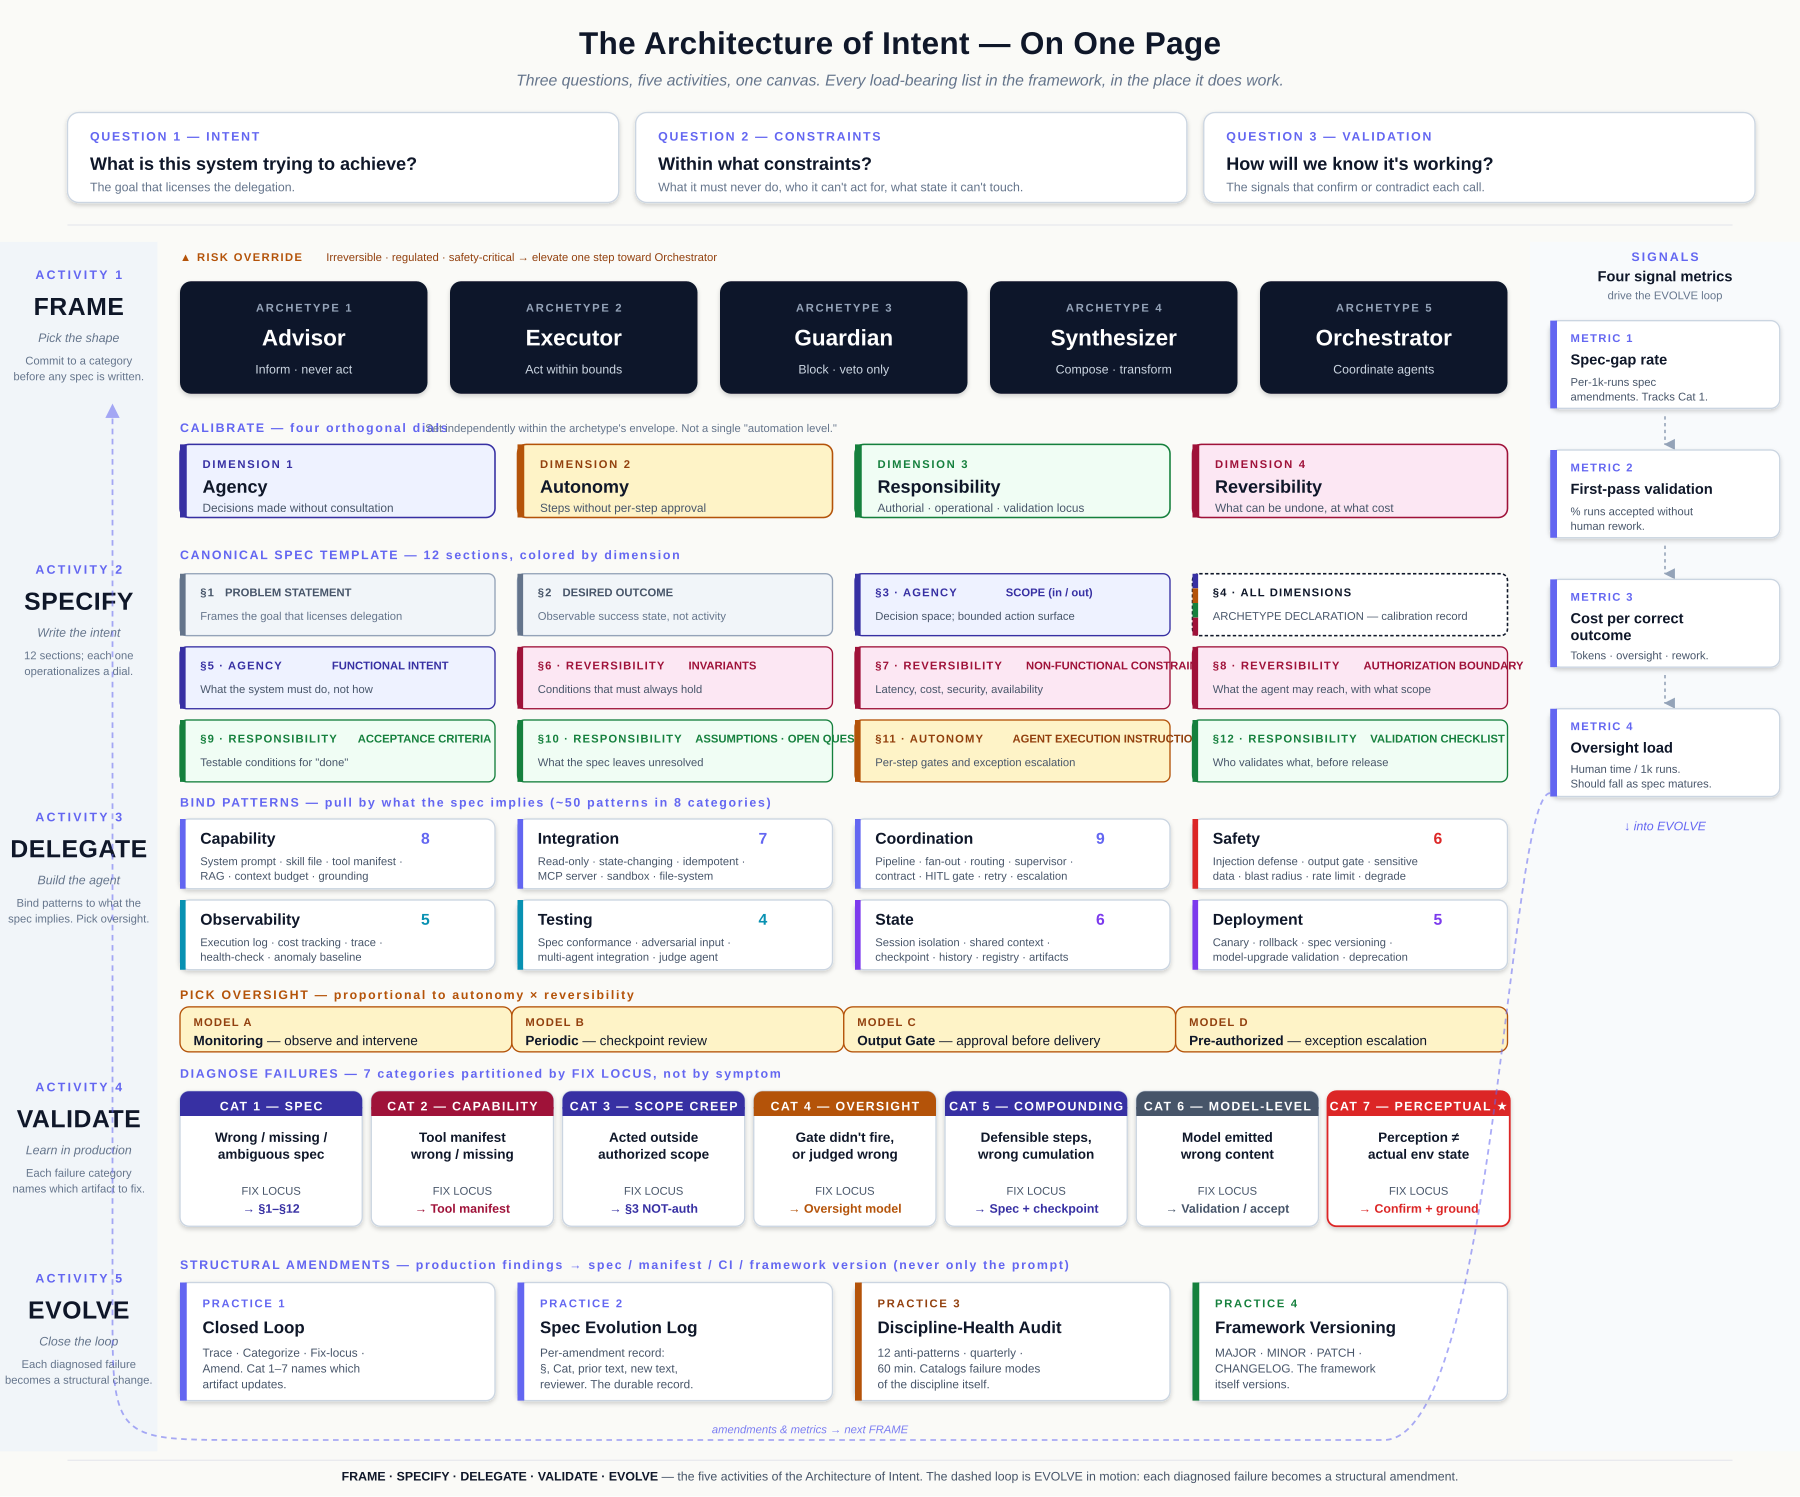
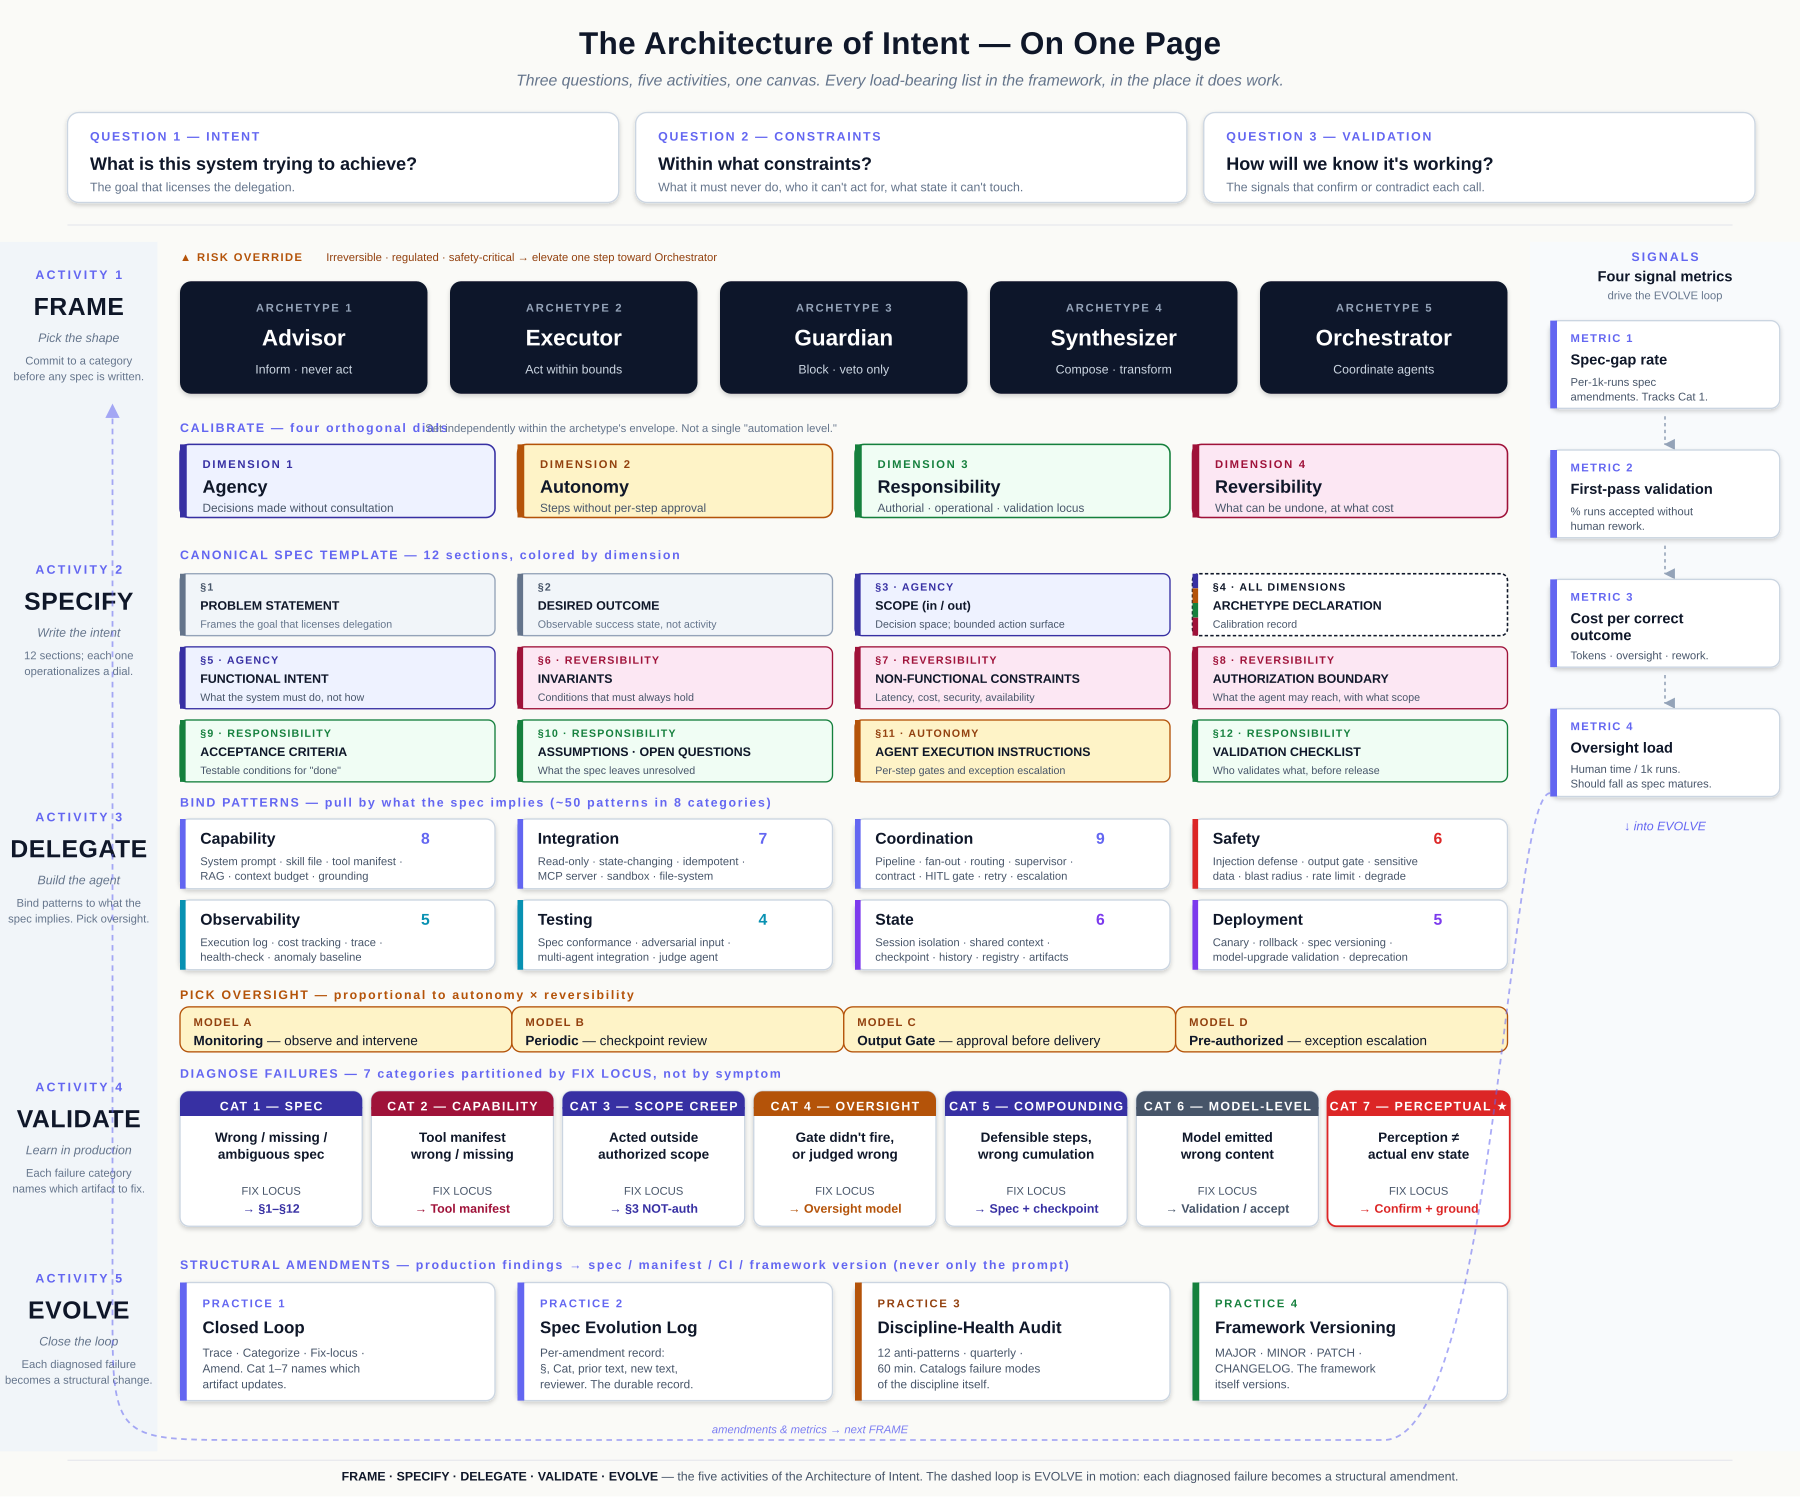
Fix canvas overflow and stale README structure
Canvas (paper/figures/architecture-of-intent-canvas.svg):
- Spec template grid (§1–§12): rework each cell from "label-then-title-on-
  same-line" to a uniform stacked layout — small dimension annotation on
  top (§N · DIMENSION), bold section title on the second line, description
  on the third line. The old layout overflowed several cells where the
  title was long: NON-FUNCTIONAL CONSTRAINTS (§7), AUTHORIZATION BOUNDARY
  (§8), ASSUMPTIONS · OPEN QUESTIONS (§10), AGENT EXECUTION INSTRUCTIONS
  (§11). Stacking removes the dependency on rsvg-convert's font-width
  estimate and gives all 12 cells a consistent visual rhythm.
- PNG regenerated at width=1800 and mirrored into src/images/ so the
  book's "framework on one page" section in src/introduction.md stays
  in sync with the paper's Figure 1.

README.md (root):
- "How it's organized" table replaced the v1.x part names ("1. Decisions,
  2. The Spec, 3. The Agent, 4. Oversight, 5. Ship, 6. Worked Pilots")
  with the v2.x five-activity spine (FRAME / SPECIFY / DELEGATE / VALIDATE
  / EVOLVE & OPERATE) plus Foundations (Part 0). Worked Pilots row
  removed; the v1.x archive is now an appendix entry per v2.3.1.
- Repository layout tree updated to reflect the actual src/ directory
  structure: foundations/, frame/, specify/, delegate/, validate/,
  evolve/. The previous tree still listed architecture/, agents/, and
  operating/ — directories that were renamed in v2.2.x.

paper/README.md:
[…]

Changed region(s): [[0.4667, 0.3687, 0.84, 0.5224], [0.28, 0.3687, 0.4356, 0.5224], [0.0933, 0.3687, 0.2489, 0.5224]]

diff --git a/README.md b/README.md
@@ -31,18 +31,20 @@ If you're trying to answer "how do we ship this agent without it doing something
 
 ## How it's organized
 
+The book is organized as five activities — Frame, Specify, Delegate, Validate, Evolve & Operate — preceded by a *Foundations* part that establishes the vocabulary.
+
 | Part | Purpose |
 |------|---------|
-| **Prologue** | What changed, what's at stake, and what this playbook gives you |
-| **1. Decisions** | Pick an archetype, calibrate the four dimensions, anticipate failure, separate intent from implementation |
-| **2. The Spec** | Spec-driven development, the canonical template, writing for machine execution, living specs |
-| **3. The Agent** | What agents are, capability boundaries, knowledge & context, tools and MCP |
-| **4. Oversight, Safety & Operations** | Proportional oversight, safety patterns, retry, observability, conformance testing |
-| **5. Ship** | Canary, rollback, versioning, governance cadence, signal metrics, intent review |
-| **6. Worked Pilots** | Two end-to-end examples: AI customer support, and a code-generation pipeline |
-| **Cross-Cutting Patterns** | Coordination and state patterns that span the framework (12 of ~50 patterns; the other 38 live alongside their parent chapters in Parts 3–5) |
-| **Repertoires & Reference** | Spec templates, archetype catalog, validation templates, code standards |
-| **Appendices** | Glossary, archetype card, MCP & SpecKit references, pattern index |
+| **Prologue / Introduction / How to read** | What changed, what's at stake, and how to navigate the book |
+| **0. Foundations** | What the Architecture of Intent is, intent vs implementation, the four calibration dimensions, failure as a design signal, what changes for senior engineers, the intent design session |
+| **1. Frame** | Pick an archetype (Advisor, Executor, Guardian, Synthesizer, Orchestrator), the four orthogonal dimensions, the decision tree, composing archetypes, multi-agent compositions, *Frame in practice* scenarios |
+| **2. Specify** | Spec-driven development, specs as control surfaces, the canonical 12-section template, ADRs, SpecKit, *Specify in practice* scenarios |
+| **3. Delegate** | What agents are, autonomy vs agency, the executor model, least capability, tools and MCP, agent skills, agent classes (coding, computer-use, deep-research), *Delegate in practice* scenarios |
+| **4. Validate** | Intent review, four signal metrics, evals, red-team, *Validate in practice* scenarios |
+| **5. Evolve & Operate** | The closed loop, anti-patterns, framework versioning, deployment patterns (canary, rollback, spec versioning, model-upgrade, deprecation), governance, cost, telemetry, adoption playbook, MVP-AoI, DevSquad mapping, co-adoption, *Evolve & Operate in practice* scenarios |
+| **6. Reference — Cross-Cutting Patterns** | Coordination and state patterns that span the framework (12 of ~50 patterns; the other 38 live alongside their parent chapters in Parts 3–5) |
+| **Repertoires** | Spec templates, code standards |
+| **Appendices** | Glossary, pattern index, reading paths, companion paper, legacy v1.x worked-pilots archive, references, archetype card, RACI card, MCP & skills card, model-tier card |
 
 ## Companion paper and teaching deck
 
@@ -89,31 +91,34 @@ https://marcelaldecoa.github.io/TheArchitectureOfIntent/
 ```
 TheArchitectureOfIntent/
 ├── book.toml
-├── .github/workflows/deploy.yml
-├── src/
-│   ├── SUMMARY.md            # Table of contents
-│   ├── introduction.md
-│   ├── how-to-read.md
-│   ├── prologue.md           # Short prologue: what changed and what's at stake
-│   ├── architecture/         # Archetypes, decision tree, dimensions, composition
-│   ├── foundations/               # Intent vs implementation, calibration, failure diagnosis
-│   ├── specify/                  # Spec-driven development
-│   ├── agents/               # Agents, MCP, oversight
-│   ├── patterns/             # ~50 pattern one-pagers (capability, integration, coordination, ...)
-│   ├── repertoires/          # Templates, archetype catalog, code standards
-│   ├── operating/            # Governance, metrics, intent review
-│   ├── examples/             # End-to-end worked pilots
-│   └── appendices/           # Glossary, archetype card, references, pattern index
-├── paper/                    # Companion arXiv paper + teaching deck
-│   ├── architecture-of-intent.{md,pdf}    # Paper source + compiled PDF
-│   ├── architecture-of-intent.{pptx,html} # Teaching deck (PowerPoint + self-contained HTML)
-│   ├── presentation_content.py             # Single source of truth for both decks
-│   ├── build_{presentation,html_presentation}.py  # Deck builders
-│   ├── check-deck-sync.py                  # Drift detector between paper and deck
-│   ├── figures/                            # Figure SVGs + pre-rendered PNGs
-│   └── references.bib                      # Bibliography
-├── scripts/                  # Helper scripts (link checker, orphan checker)
-└── theme/                    # Custom CSS and zoom widget
+├── CHANGELOG.md                                # Framework version history
+├── .github/workflows/
+│   ├── deploy.yml                              # Auto-publish book to GitHub Pages on push to main
+│   └── build-paper.yml                         # Auto-rebuild paper PDF + decks on source change
+├── src/                                        # The book (mdBook source)
+│   ├── SUMMARY.md                              # Table of contents
+│   ├── introduction.md, how-to-read.md, prologue.md, miniature-pilot.md, cover.md
+│   ├── images/                                 # Book-side image copies (canvas mirror, kept in sync by GH workflow)
+│   ├── foundations/                            # Part 0: vocabulary — intent vs implementation, calibration, failure as design signal
+│   ├── frame/                                  # Part 1: archetypes, dimensions, decision tree, composition + frame/scenarios/
+│   ├── specify/                                # Part 2: SDD, the canonical spec template, ADRs, SpecKit + specify/scenarios/
+│   ├── delegate/                               # Part 3: agents, autonomy vs agency, least capability, MCP, agent classes + delegate/scenarios/
+│   ├── validate/                               # Part 4: intent review, signal metrics, evals, red-team + validate/scenarios/
+│   ├── evolve/                                 # Part 5 (EVOLVE & OPERATE): closed loop, deployment patterns, governance, cost, telemetry, DevSquad mapping + evolve/scenarios/
+│   ├── patterns/                               # ~50 pattern one-pagers (capability, integration, coordination, safety, observability, testing, state, deployment)
+│   ├── repertoires/                            # Spec templates, code standards
+│   ├── examples/                               # v1.x worked pilots archive (preserved on disk; reached via appendices/legacy-pilots.md)
+│   └── appendices/                             # Glossary, pattern index, reading paths, companion paper, legacy-pilots archive, references, quick-select cards
+├── paper/                                      # Companion arXiv paper + teaching deck
+│   ├── architecture-of-intent.{md,pdf}         # Paper source + compiled PDF
+│   ├── architecture-of-intent.{pptx,html}      # Teaching deck (PowerPoint + self-contained HTML)
+│   ├── presentation_content.py                 # Single source of truth for both decks
+│   ├── build_{presentation,html_presentation}.py   # Deck builders
+│   ├── check-deck-sync.py                      # Drift detector between paper and deck
+│   ├── figures/                                # Figure SVGs + pre-rendered PNGs (canvas, decision tree, orthogonality)
+│   └── references.bib                          # Bibliography
+├── scripts/                                    # Helper scripts (link checker, orphan checker)
+└── theme/                                      # Custom CSS and zoom widget
 ```
 
 ## Framework version

diff --git a/paper/README.md b/paper/README.md
@@ -17,8 +17,9 @@ The teaching deck is a current, modern companion intended for workshops, recruit
 | `architecture-of-intent.pptx` | Teaching deck (PowerPoint, 16:9) — committed |
 | `architecture-of-intent.html` | Teaching deck (self-contained HTML) — committed |
 | `references.bib` | BibTeX bibliography (~30 entries across 9 domains) |
-| `figures/archetype-decision-tree.svg` + `.png` | Figure 1 — referenced in §3.2 |
-| `figures/four-dimensions-orthogonality.svg` + `.png` | Figure 2 — referenced in §3.3 |
+| `figures/architecture-of-intent-canvas.svg` + `.png` | Figure 1 — the framework on one page; referenced in §3 (and mirrored to `src/images/` for the book) |
+| `figures/archetype-decision-tree.svg` + `.png` | Figure 2 — referenced in §3.2 |
+| `figures/four-dimensions-orthogonality.svg` + `.png` | Figure 3 — referenced in §3.3 |
 | `presentation_content.py` | Single source of truth for both decks (slide data + palette) |
 | `build_presentation.py` | Builds the PPTX from `presentation_content.py` |
 | `build_html_presentation.py` | Builds the HTML deck from `presentation_content.py` |
@@ -104,14 +105,18 @@ This honest accounting is in the abstract, §1.3, and §5. Reviewers reward it; 
 
 ## Figures
 
-Both figures are SVG sources that pre-render to PNG. The paper Markdown references the PNG files (arXiv-portable; `librsvg2-bin` is not required at compile time). To regenerate the PNGs after editing an SVG:
+All three figures are SVG sources that pre-render to PNG. The paper Markdown references the PNG files (arXiv-portable; `librsvg2-bin` is not required at compile time). To regenerate the PNGs after editing an SVG:
 
 ```bash
+rsvg-convert --format=png --width=1800 paper/figures/architecture-of-intent-canvas.svg \
+  --output paper/figures/architecture-of-intent-canvas.png
 rsvg-convert --format=png --width=1800 paper/figures/archetype-decision-tree.svg \
   --output paper/figures/archetype-decision-tree.png
+rsvg-convert --format=png --width=1800 paper/figures/four-dimensions-orthogonality.svg \
+  --output paper/figures/four-dimensions-orthogonality.png
 ```
 
-Or just push to `main` and let the workflow do it.
+Or just push to `main` and let the workflow do it. The "Compile paper & decks" workflow also mirrors the canvas PNG into `src/images/` so the book's *Introduction → The framework on one page* section stays in sync with the paper's Figure 1.
 
 If the paper goes to a workshop or journal that prefers TikZ, both figures can be re-rendered natively in LaTeX from the same logical content; SVG is the working format until then.
 